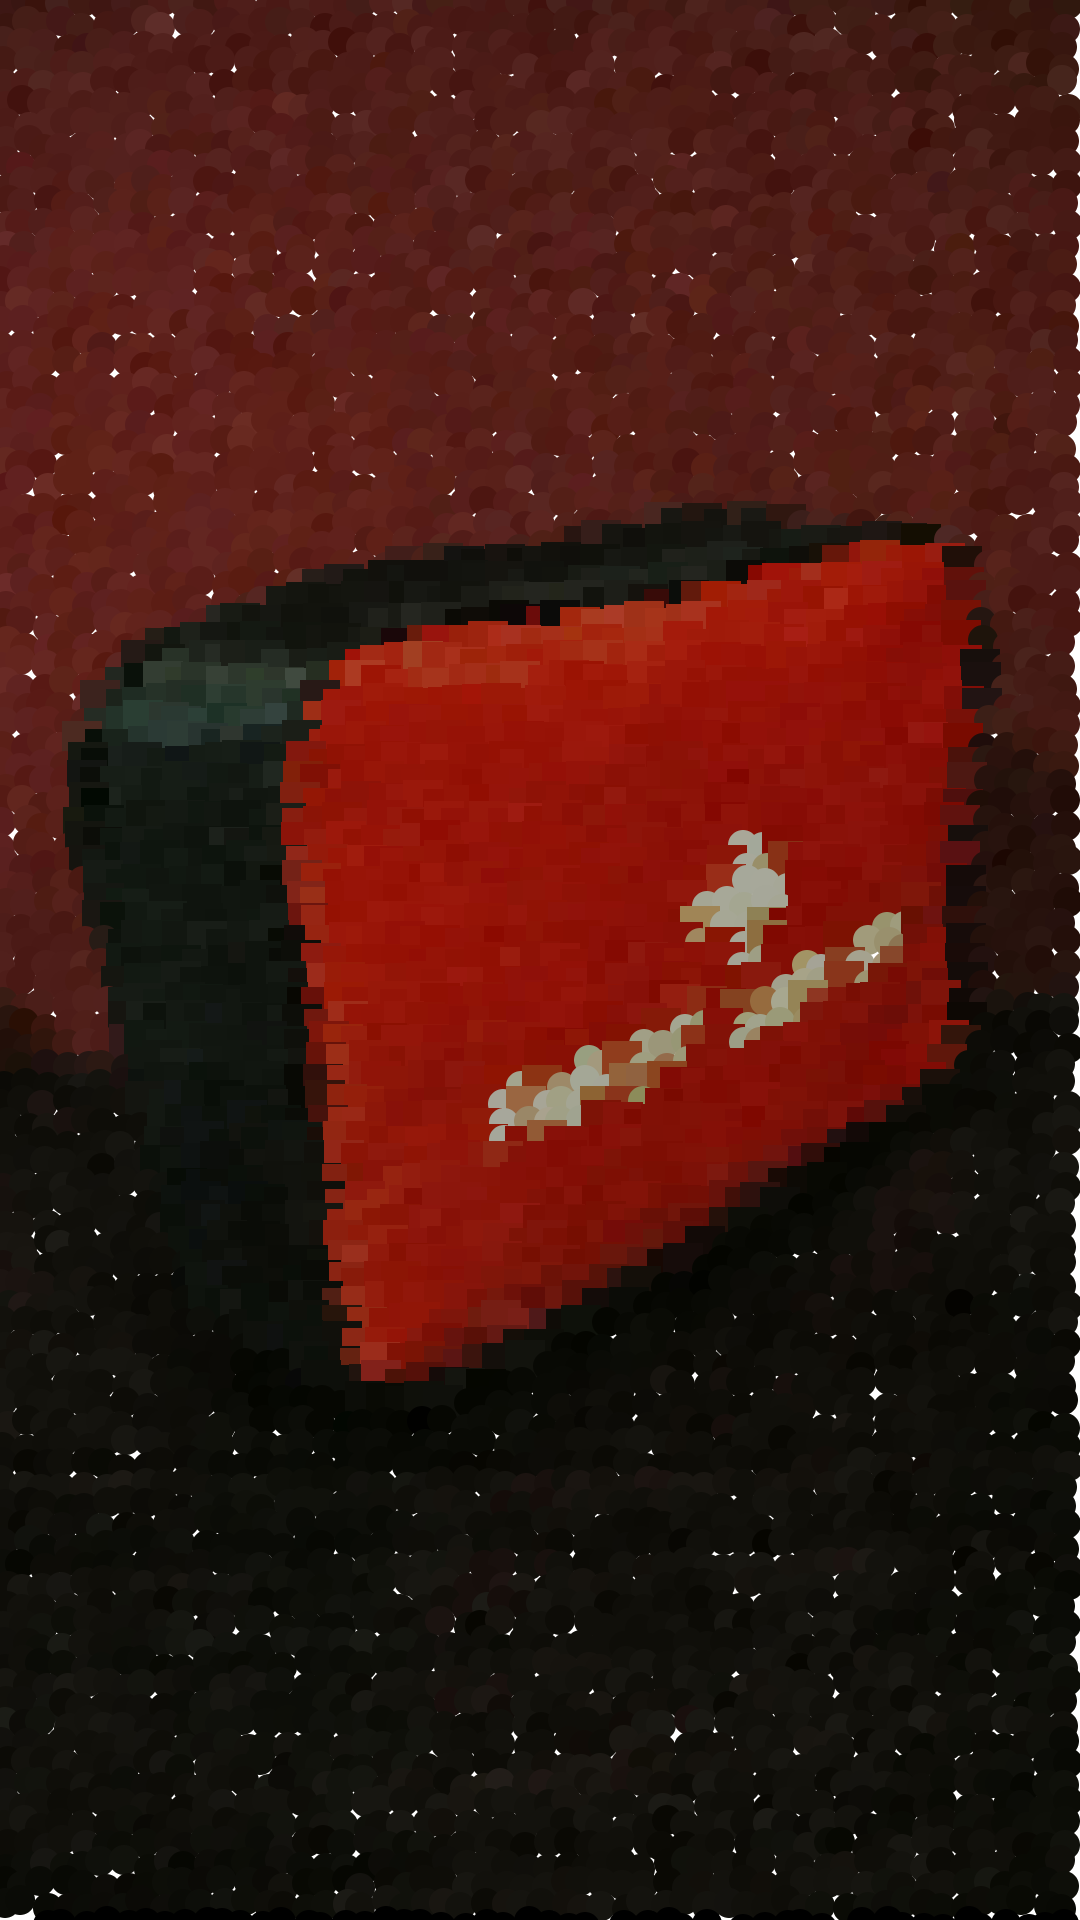
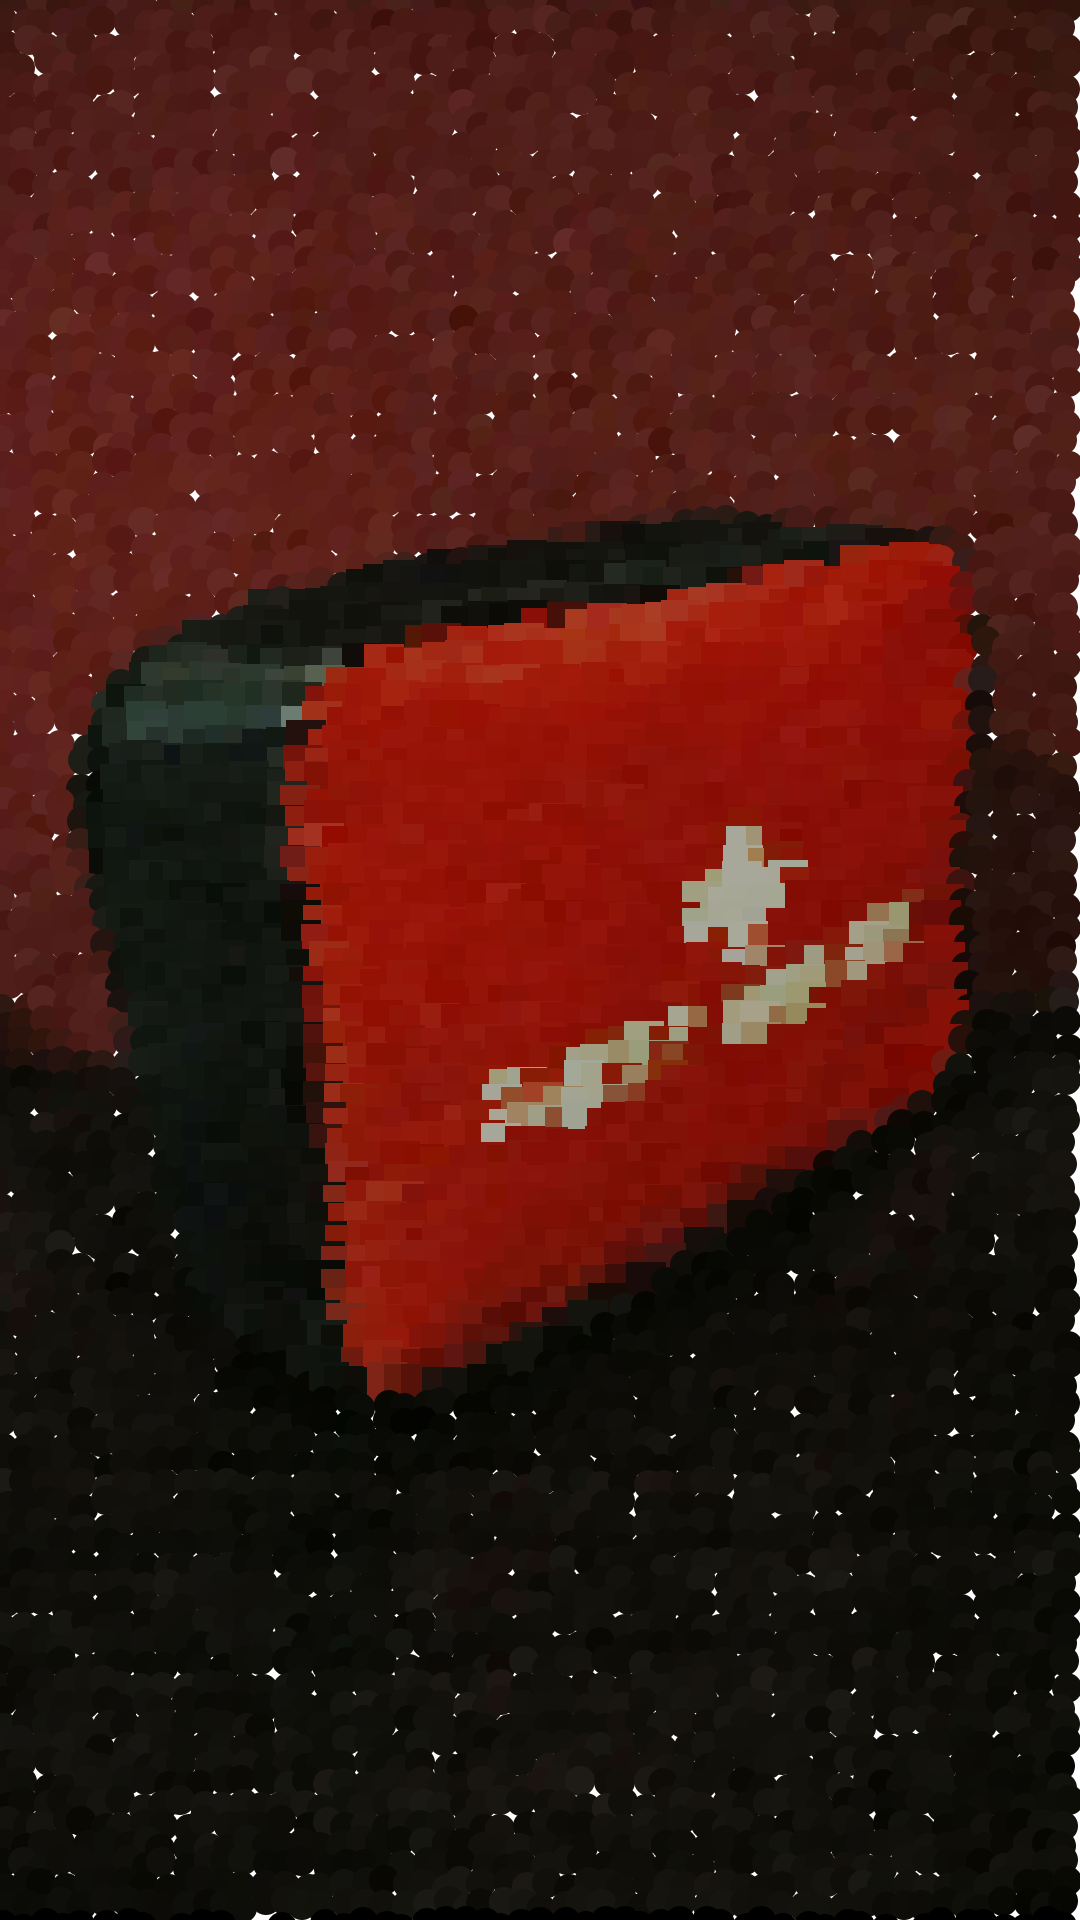
smartmasked

diff --git a/sketch.js b/sketch.js
@@ -19,7 +19,7 @@ let renderCounter=0;
 
 function preload() {
   sourceImg = loadImage("input_3.jpg");
-  maskImg = loadImage("mask_3.png");
+  maskImg = loadImage("mask_input_3.png");
 }
 
 function setup () {

diff --git a/README.md b/README.md
@@ -1,7 +1,9 @@
-I've been trying to experiment alot more with this image.
+I thought about not using smartmasking, but I tried it on my 3rd photo, and found the smartmask was more cleaner than if I used Photoshop.
 
-I've tried playing around with different ellipse shapes, and playing around with what the mask draws and where.
+For example, the edges are clean with smartmasking, but with Photoshop the edges were jaggered.
 
-For now, I'm taking a break on this iteration. I think background gaps shining through with white spots is really cool, and adds to my theme/asthetic of memory fuzz.
 
-However, I'm not happy with the drawing of the FirstAidKit as it is, so it'll give me the opportunity to experiment with different coding methods.
+
+However, the smartmask couldn't identify the object in input_2. Also for input_1 it actually recognized the object as a teddy bear, but it didn't completely cover the bear.
+
+So I'll stick with a manual mask for image 1 & 2, and use smartmasking for image 3.
